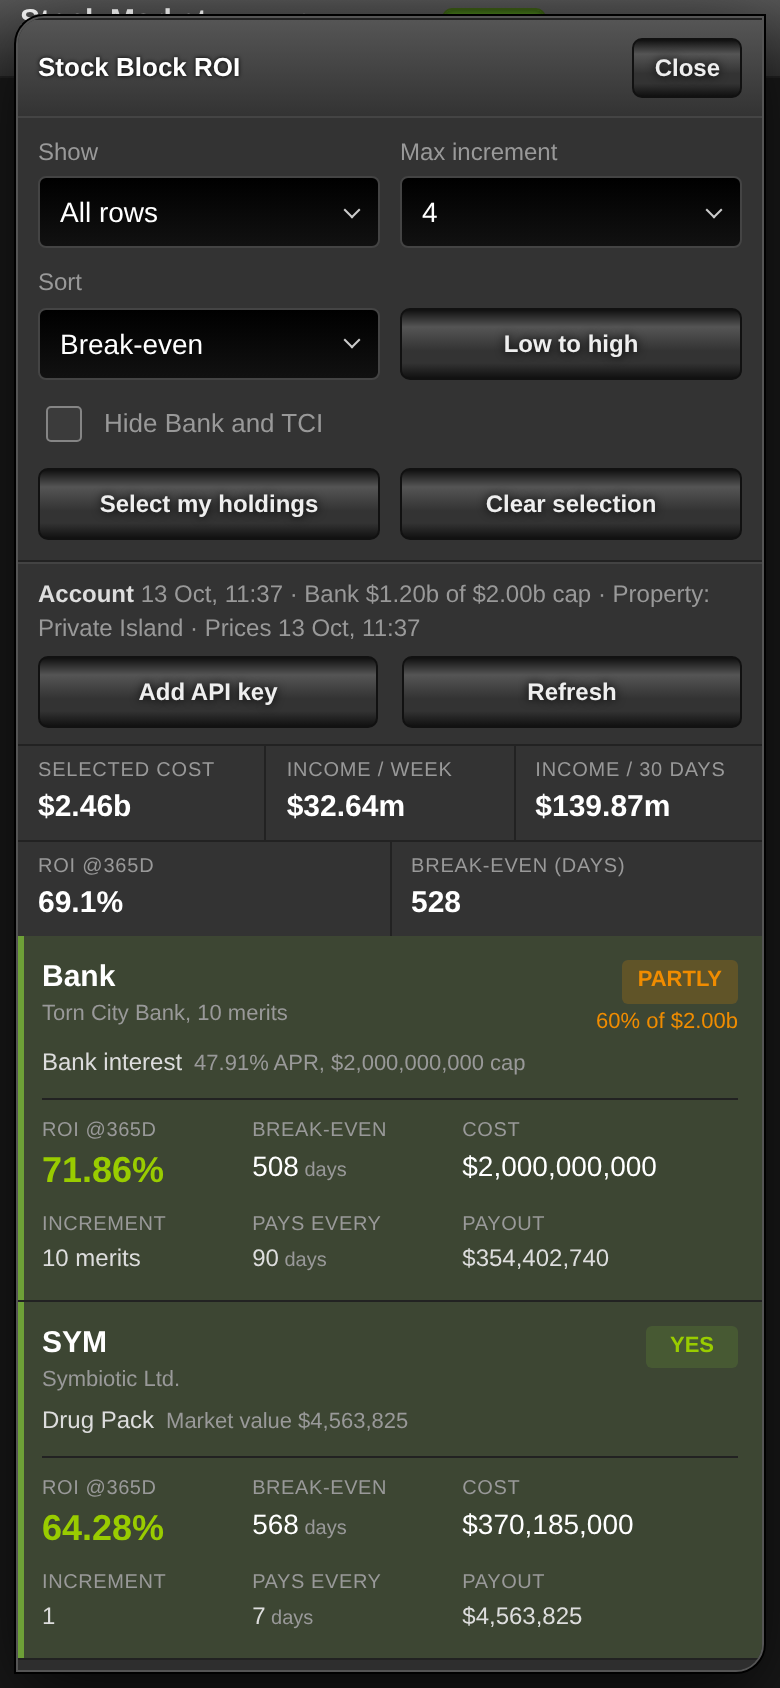
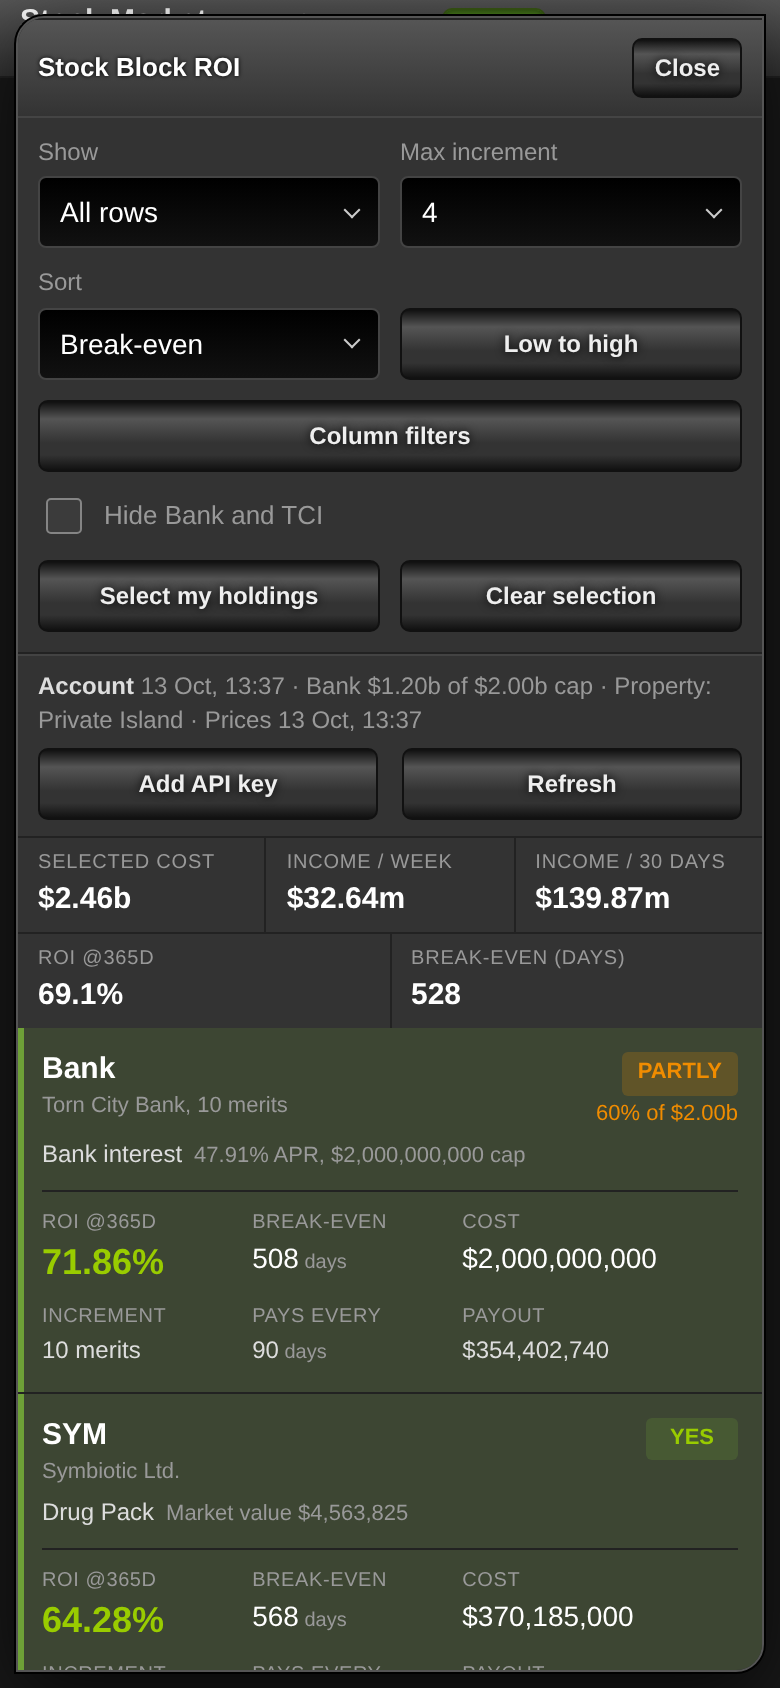
Update description and screenshots

diff --git a/Torn Stock ROI/greasyfork.md b/Torn Stock ROI/greasyfork.md
@@ -12,6 +12,7 @@
 - **One scale for everything.** Cash, items and points blocks (increments 1 to 4) compared by days to break even and yearly ROI, using live prices and live item values.
 - **Knows your account.** Shows what you own, your bank deposit and your bank cap (Oil Rig aware).
 - **Pick and total.** Select rows to see their combined cost, weekly and monthly income and ROI.
+- **Sort and filter any column.** Click a header to sort, or to keep only the values you tick (say increment 1, or increments 2 and 3) or a number range. Filters stack and are remembered.
 - **Desktop and Torn PDA.** Opens instantly from cache, refreshes only when the data is old.
 
 ## How to use
@@ -25,6 +26,18 @@
 - Your key is stored only in your browser (localStorage) and sent only to `api.torn.com`.
 - It reads nothing from the page and clicks nothing. Its only network calls go to the official Torn API with your own key, after you press ROI (stale cache) or Refresh.
 - Not included: passive stocks, HRG, BAG, EVL, MCS, CBD. Clothing Cache is an estimate (average of the seven caches).
+
+<details>
+<summary><b>Sort and filter</b></summary>
+<ul>
+<li>Click a column header: <b>Sort A to Z</b> or <b>Z to A</b> (smallest or largest first for numbers).</li>
+<li>Stock, Return, Increment, Days per payout and Owned? also get a search box and a checklist. Five rows show, the rest scrolls.</li>
+<li>Payout value, Cost, Days to break even and ROI @365d get <b>Min</b> and <b>Max</b>. You can type 5m, 2b or 750k.</li>
+<li>Filters stack. Each active one is a chip above the table: click it to remove it.</li>
+<li>Fastest payback among increment 1: tick only 1 under Increment, then sort Days to break even smallest to largest.</li>
+<li>On a phone use <b>Sort</b> and <b>Column filters</b> at the top.</li>
+</ul>
+</details>
 
 <details>
 <summary><b>Reading the table</b></summary>

diff --git a/Torn Stock ROI/README.md b/Torn Stock ROI/README.md
@@ -15,6 +15,8 @@ fast each one pays for itself.
   break even and yearly ROI, using live prices and live item values.
 - **Knows your account.** Shows what you own, your bank deposit and your bank cap (Oil Rig aware).
 - **Pick and total.** Select rows to see their combined cost, weekly and monthly income and ROI.
+- **Sort and filter any column.** Click a header to sort, or to keep only the values you tick (say
+  increment 1, or increments 2 and 3) or a number range. Filters stack and are remembered.
 - **Desktop and Torn PDA.** Opens instantly from cache, refreshes only when the data is old.
 
 ## Install
@@ -42,6 +44,22 @@ fast each one pays for itself.
 
 Increment *n* needs requirement x (2^*n* - 1) shares in total and pays *n* x the base return
 ([Torn wiki](https://wiki.torn.com/wiki/Stock_Market)).
+
+</details>
+
+<details>
+<summary><b>Sort and filter</b></summary>
+
+- Click a column header: **Sort A to Z** or **Z to A** (smallest or largest first for numbers).
+- Stock, Return, Increment, Days per payout and Owned? also get a search box and a checklist. Five
+  rows show, the rest scrolls. **(Select All)** applies to what the search shows.
+- Payout value, Cost, Days to break even and ROI @365d get **Min** and **Max** (both included). You
+  can type `5m`, `2b` or `750k`.
+- Filters stack with each other and with **Show**, **Max increment** and **Hide Bank and TCI**. Each
+  active filter is a chip above the table: click it to remove it, or use **Clear filters**.
+- Fastest payback among increment 1: tick only 1 under Increment, then sort Days to break even
+  smallest to largest.
+- On a phone the header row is gone: use **Sort** and **Column filters** at the top.
 
 </details>
 
